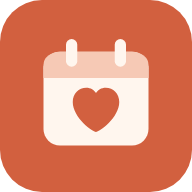
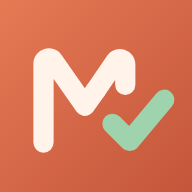
Nuevo ícono: M con check
Claude-Session: https://claude.ai/code/session_01XHFHEtpVzSWU39u8h6mkgx

diff --git a/index.html b/index.html
@@ -6,8 +6,8 @@
 <meta name="theme-color" content="#C4553A">
 <meta name="description" content="Mamá al Día: escribe como te salga y Lía te ordena agenda, medicamentos, menú y compras. Versión de prueba.">
 <link rel="manifest" href="manifest.webmanifest">
-<link rel="icon" href="favicon.png">
-<link rel="apple-touch-icon" href="apple-touch-icon.png">
+<link rel="icon" href="favicon.png?v=3">
+<link rel="apple-touch-icon" href="apple-touch-icon.png?v=3">
 <meta name="apple-mobile-web-app-capable" content="yes">
 <meta name="mobile-web-app-capable" content="yes">
 <meta name="apple-mobile-web-app-title" content="Mamá al Día">

diff --git a/sw.js b/sw.js
@@ -1,4 +1,4 @@
-const C='mamaaldia-v2';
+const C='mamaaldia-v3';
 const F=['./','./index.html','./manifest.webmanifest','./icon-192.png','./icon-512.png','./icon-maskable-512.png','./apple-touch-icon.png','./favicon.png'];
 self.addEventListener('install',e=>{e.waitUntil(caches.open(C).then(c=>c.addAll(F)));self.skipWaiting()});
 self.addEventListener('activate',e=>{e.waitUntil(caches.keys().then(k=>Promise.all(k.filter(x=>x!==C).map(x=>caches.delete(x)))));self.clients.claim()});
